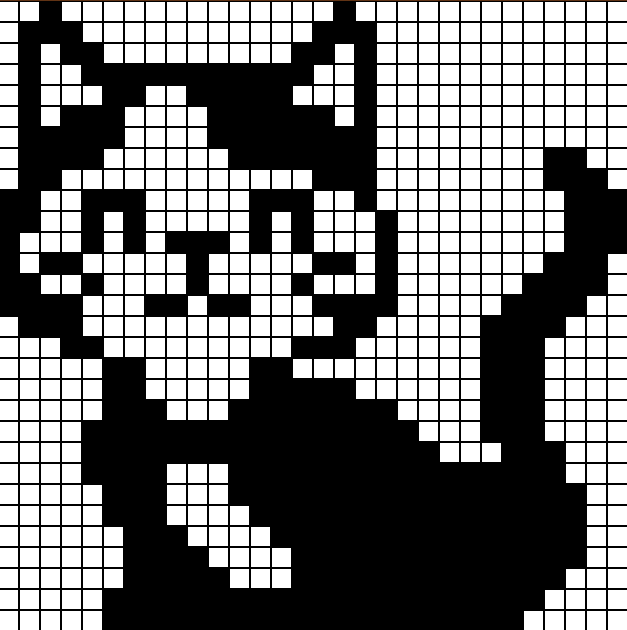
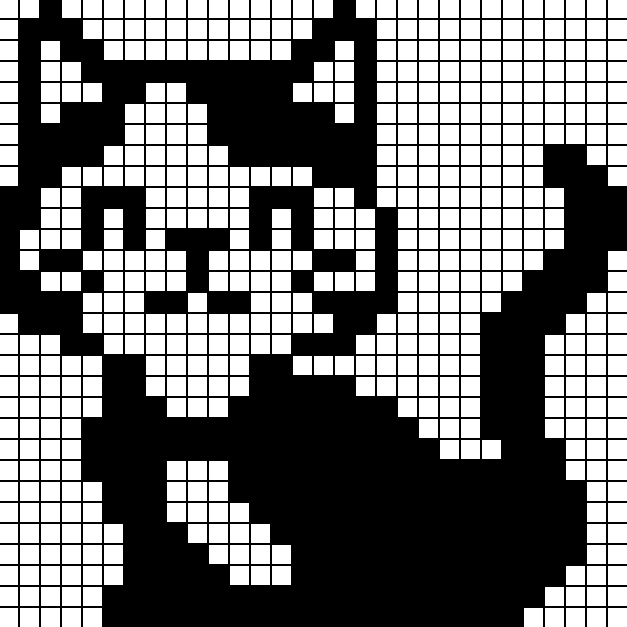
Mise à jour de la présentation

diff --git a/README.md b/README.md
@@ -1,5 +1,5 @@
 # Nonogram-Solver
-![alt text](https://github.com/Kugge/Nonogram-Solver/blob/master/preview.png?raw=true)  
+![](https://github.com/Kugge/Nonogram-Solver/blob/master/preview.png?raw=true) | ![](https://github.com/Kugge/Nonogram-Solver/blob/master/preview2.png?raw=true)  
 Projet Nonogram  
 Par Sofiane DJERBI &amp; Salem HAFTARI
 
@@ -16,10 +16,8 @@ Par Sofiane DJERBI &amp; Salem HAFTARI
 ## TODO
 - ~~Faire une librairie graphique~~ Fait
 - ~~Faire un outil permettant de convertir un nonogramme en données exploitables~~ Fait
-- ~~Création d'une librairie de conversion FND vers FNC~~ Fait
-- ~~Modéliser un nonogramme en logique~~ Fait
+- ~~Modéliser un nonogramme en FNC~~ Fait
 - ~~Implémenter un solveur SAT~~ Fait
-- Implémenter NOTRE solveur SAT: EN COURS
-- Ajouter des couleurs (Facultatif)
+- ~~Implémenter NOTRE solveur SAT~~ Fait
 ## Infos supplémentaires
 (1) : On ne va pas obliger le correcteur à installer cette librairie trop lourde pour une fonctionnalité qui n'est pas censée être dans le projet. C'est pourquoi on proposera des nonogrammes déjà "téléchargés" sous forme de fichiers. Cependant, soyez libre d'installer requests-html et le driver chromium pour utiliser notre scraper.
